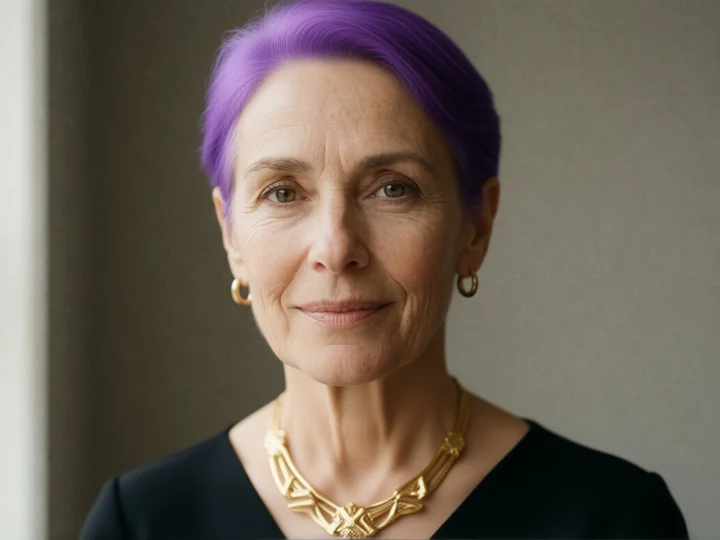
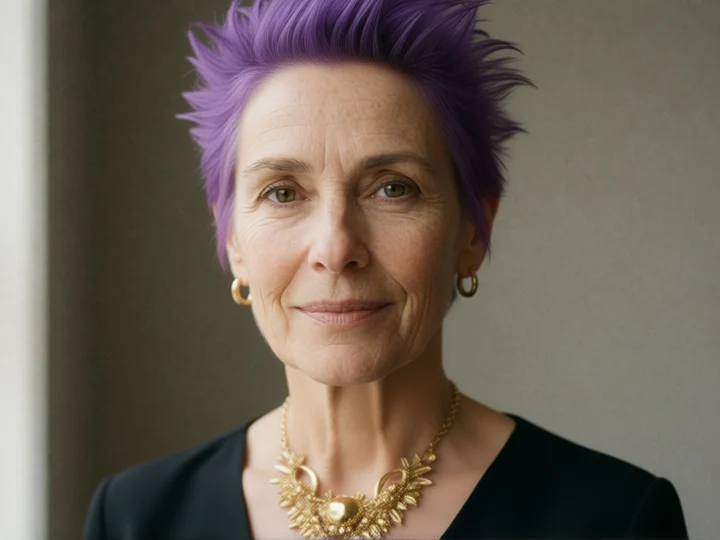
Home: Edit Image example, a violet punk hairdo

diff --git a/src/i18n/en/nouveautes.ts b/src/i18n/en/nouveautes.ts
@@ -1006,7 +1006,7 @@ export const nouveautes: Record<string, string> = {
   'Gros plan': "Close-up",
   'FLUX 3 Image Klein — texte vers image, FLUX Kommunity License ; pas de LoRA d’identité : le visage du personnage n’est pas tenu': "FLUX 3 Image Klein — text to image, FLUX Kommunity License; no identity LoRA: the character's face is not kept",
   '{moteur} ne tient pas le visage de {nom}': "{moteur} does not keep {nom}'s face",
-  'Cheveux violets, collier': 'Violet hair, necklace',
+  'Punk violet, collier': 'Violet punk, necklace',
   'Glisse la barre pour comparer avant et après.': 'Drag the bar to compare before and after.',
   'La retouche': 'The retouch',
   'Rayures, poussière, taches et zones passées sont réparées, sans changer les visages ni le cadrage. La couleur est en option.': 'Scratches, dust, stains and faded areas are repaired without changing faces or framing. Colour is optional.',

diff --git a/src/v2/Apercus.tsx b/src/v2/Apercus.tsx
@@ -26,7 +26,7 @@ export const BANDEAU_CAMERA = anime('camera-w', { puces: ['Orbite', 'Dolly zoom'
 
 /** Clé : le libellé de l'outil dans GROUPES. */
 export const APERCUS: Record<string, Apercu> = {
-  'Edit Image': { type: 'compare', a: v('v2-edit-a.webp'), b: v('v2-edit-b.webp'), legA: 'Photo', legB: 'Cheveux violets, collier' },
+  'Edit Image': { type: 'compare', a: v('v2-edit-a.webp'), b: v('v2-edit-b.webp'), legA: 'Photo', legB: 'Punk violet, collier' },
   'Inpaint': compare('retouche', 'Avant', 'Zone repeinte'),
   'Depth Map': { type: 'compare', a: v('v2-depth-a.webp'), b: v('v2-depth-b.webp'), legA: 'Photo', legB: 'Profondeur' },
   'Remove Background': { type: 'compare', a: v('v2-transp-a.webp'), b: v('v2-transp-b.webp'), legA: 'Photo', legB: 'PNG transparent' },
